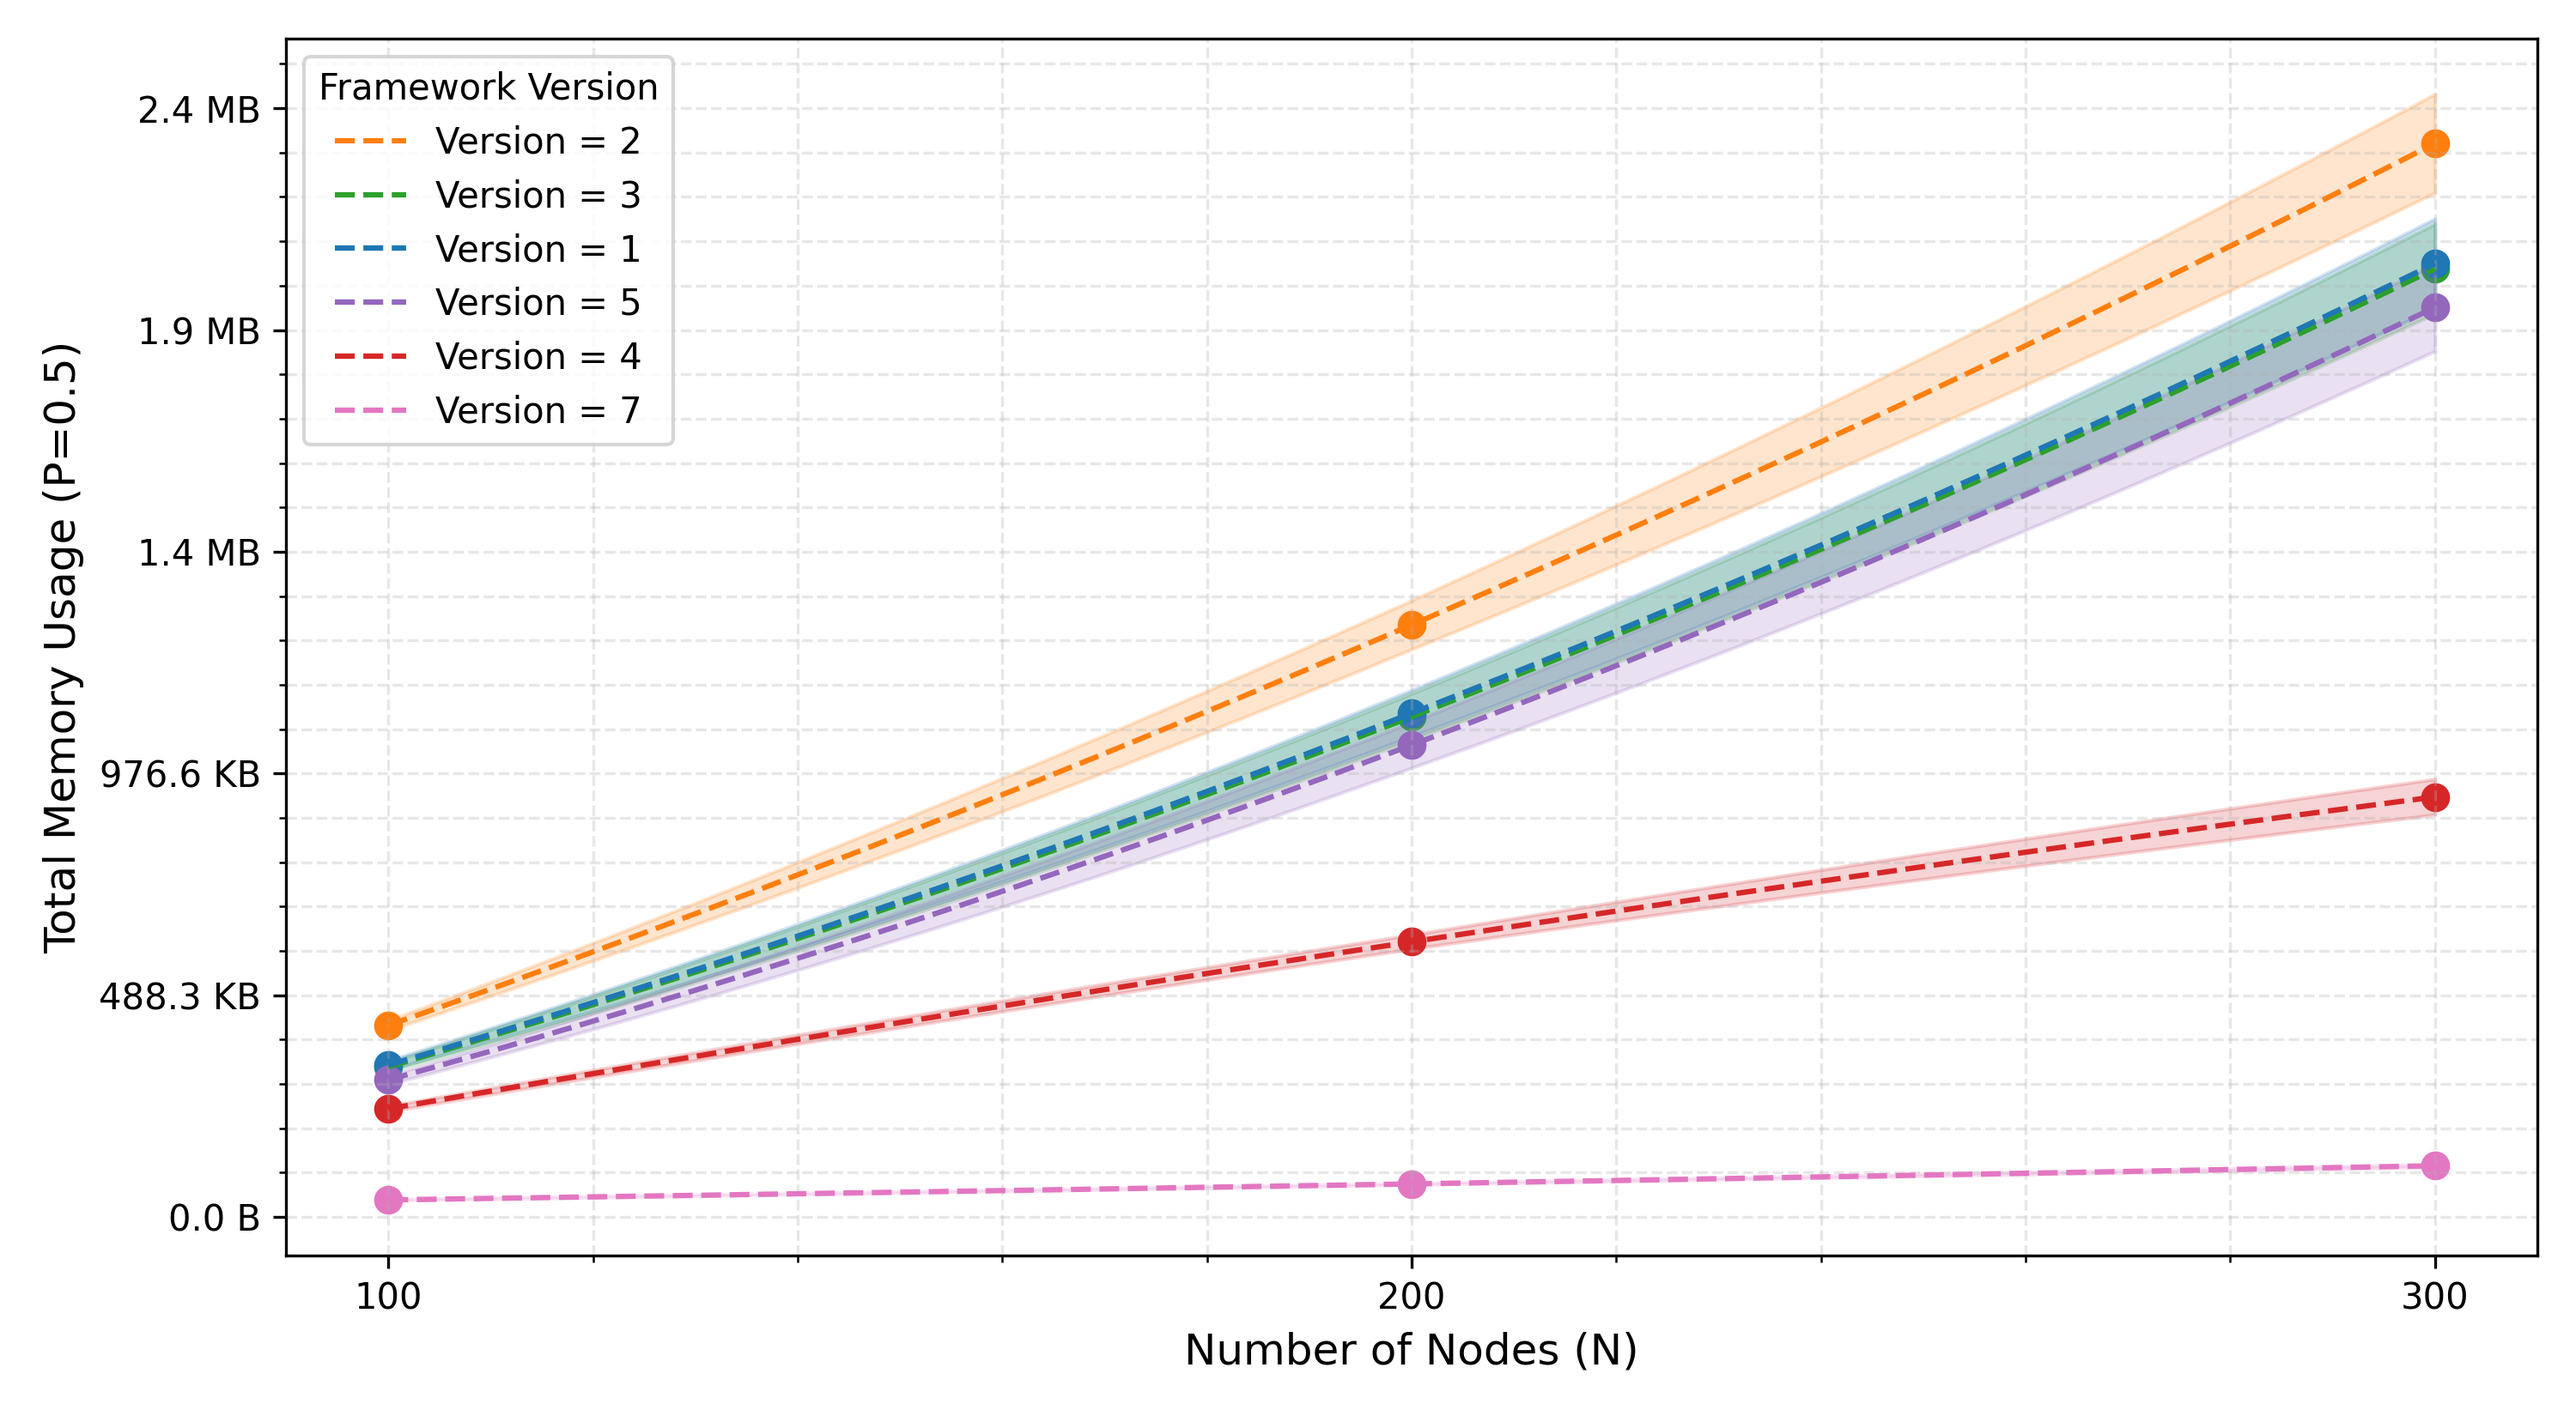
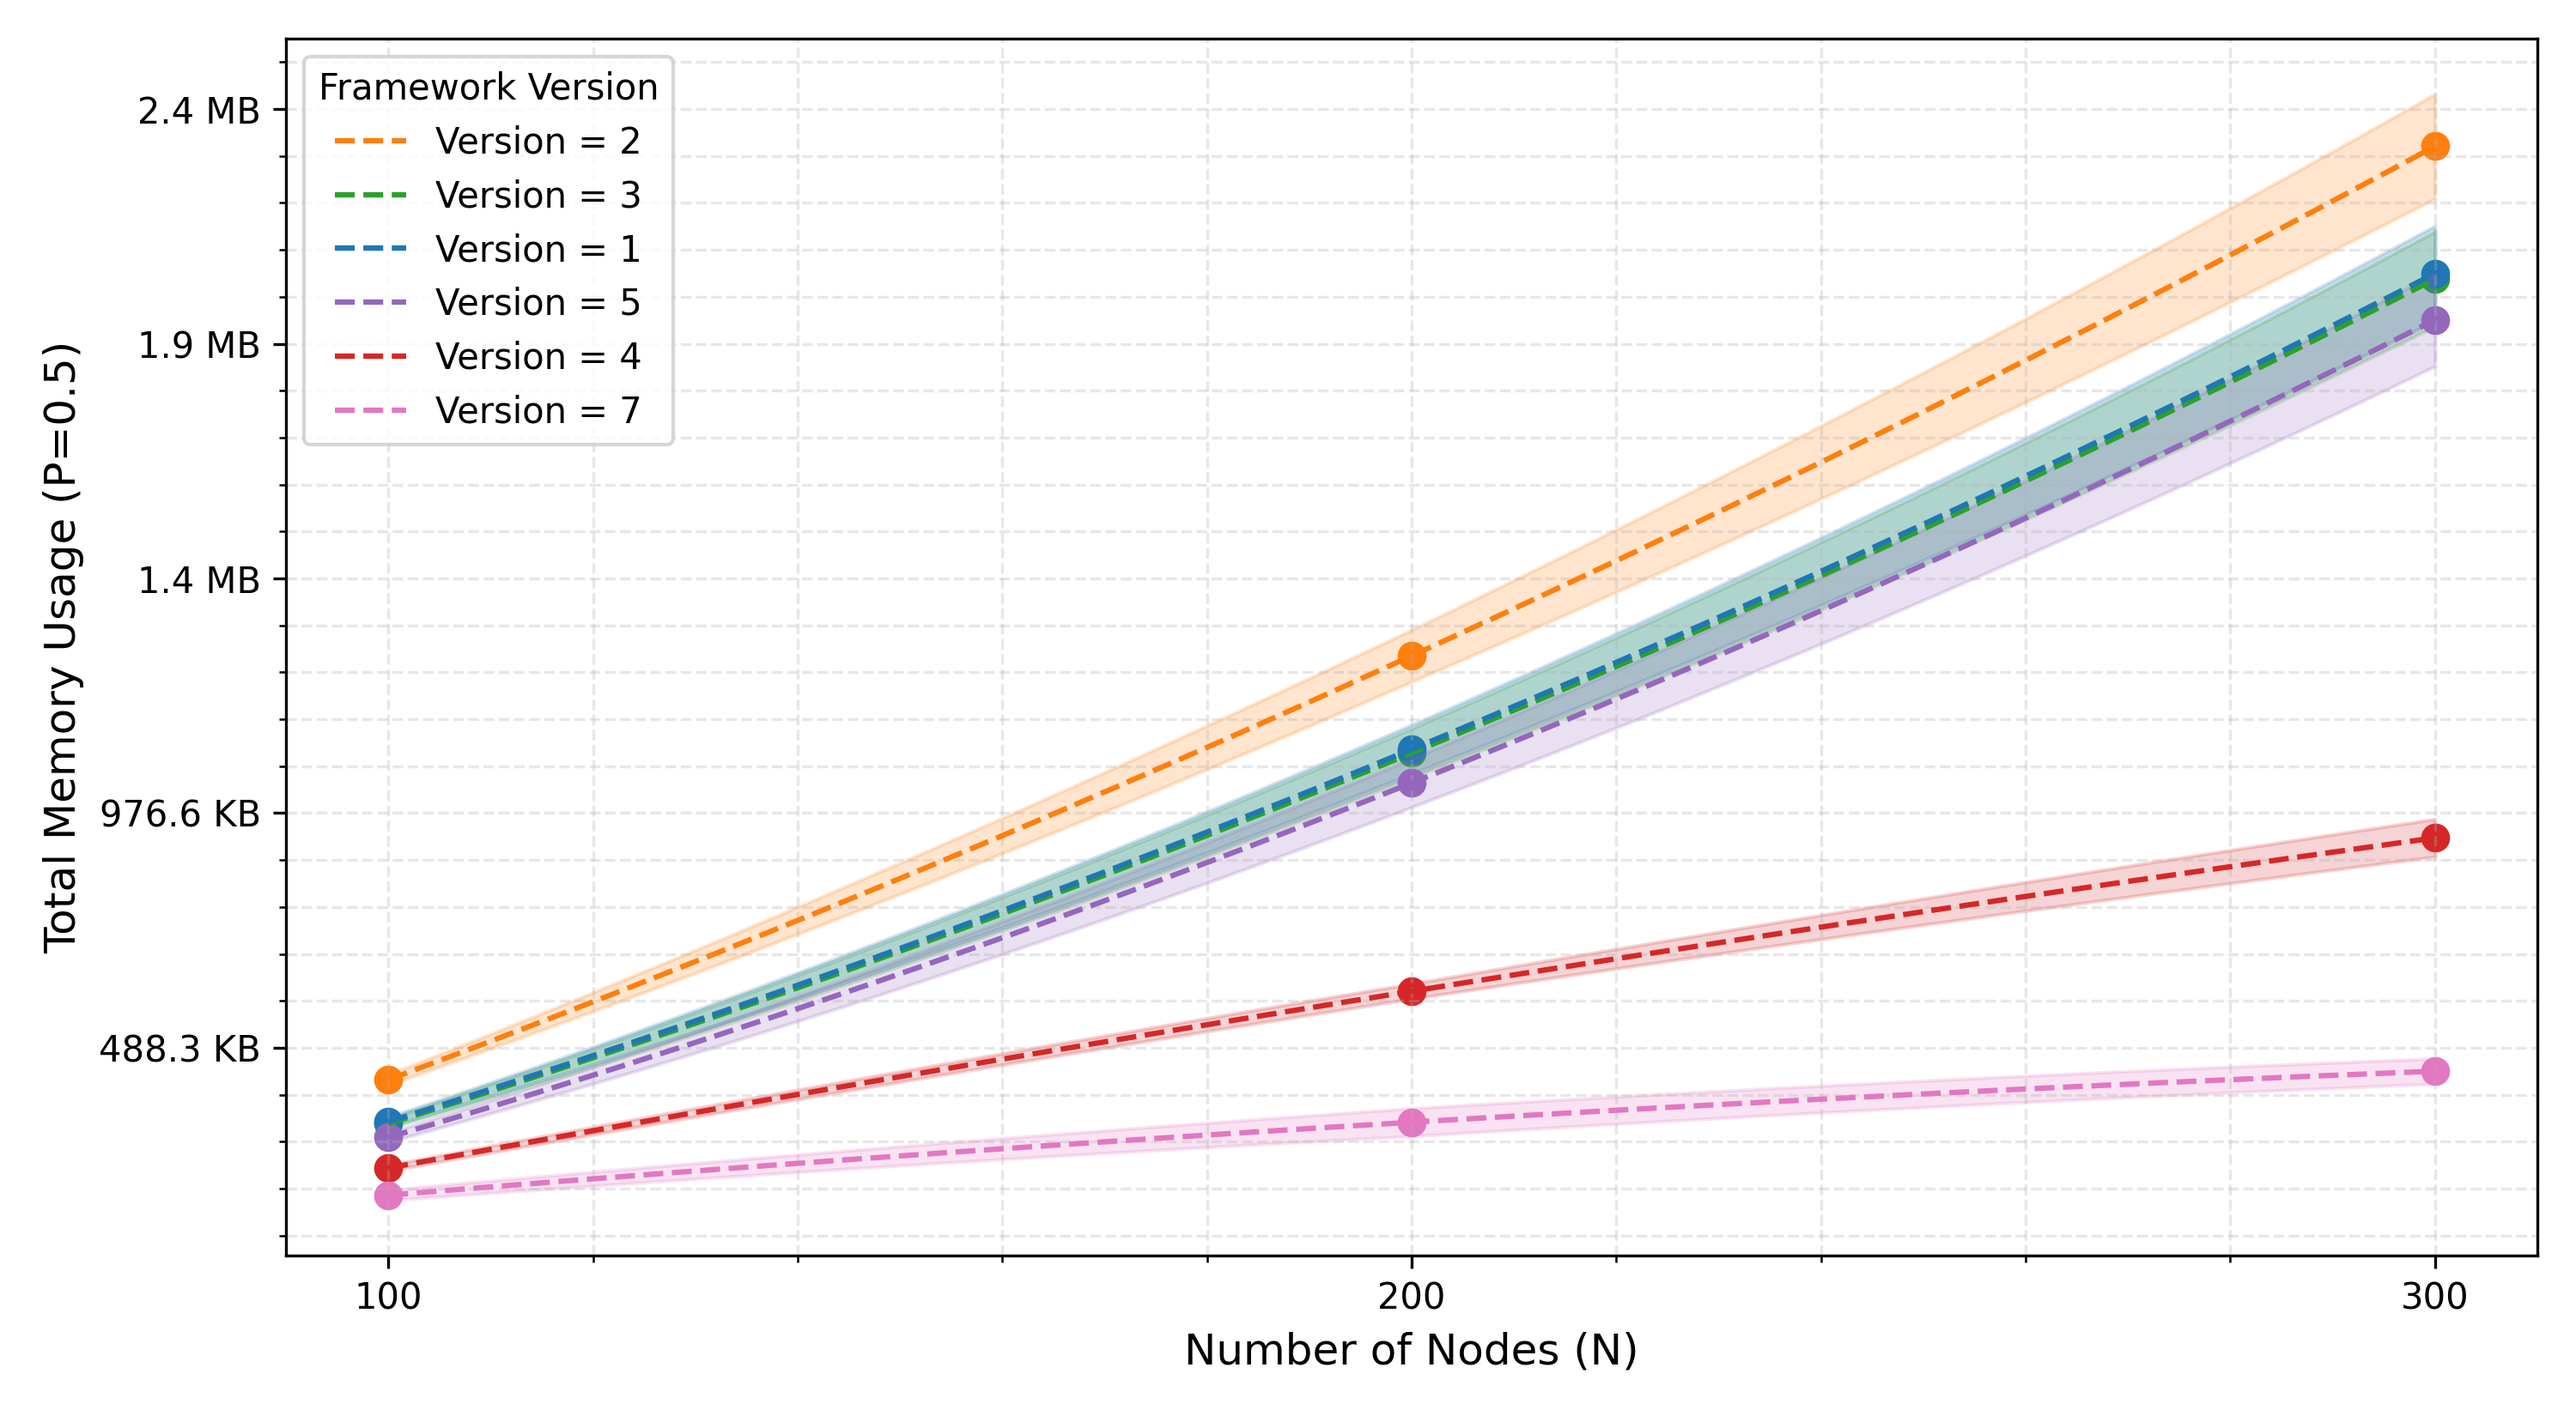
Run tests and plot results

diff --git a/results/plot.py b/results/plot.py
@@ -72,7 +72,7 @@ def plot_final_test(pgf=False):
         4: ["Cmap", "ExecEnv"],
         5: ["History"],
         6: ["Cmap", "ExecEnv"],
-        7: ["Filesize"],
+        7: ["Filesize", "Cachesize"]
     }
 
     ext = "pgf" if pgf else "png"
@@ -155,7 +155,7 @@ def plot_final_test2(pgf=False):
         4: ["Cmap", "ExecEnv"],
         5: ["History"],
         6: ["Cmap", "ExecEnv"],
-        7: ["Filesize"],
+        7: ["Filesize", "Cachesize"]
     }
 
     order = {"scheme": [6, 2, 3, 4, 1, 5, 7], "mini-java": [6, 2, 3, 1, 5, 4, 7]}
@@ -238,8 +238,8 @@ def plot_final_test2(pgf=False):
 
 
 if __name__ == "__main__":
-    plot_final_test()
-    plot_final_test2()
-    # set_pgf()
-    # plot_final_test(pgf=True)
-    # plot_final_test2(pgf=True)
+    # plot_final_test()
+    # plot_final_test2()
+    set_pgf()
+    plot_final_test(pgf=True)
+    plot_final_test2(pgf=True)
